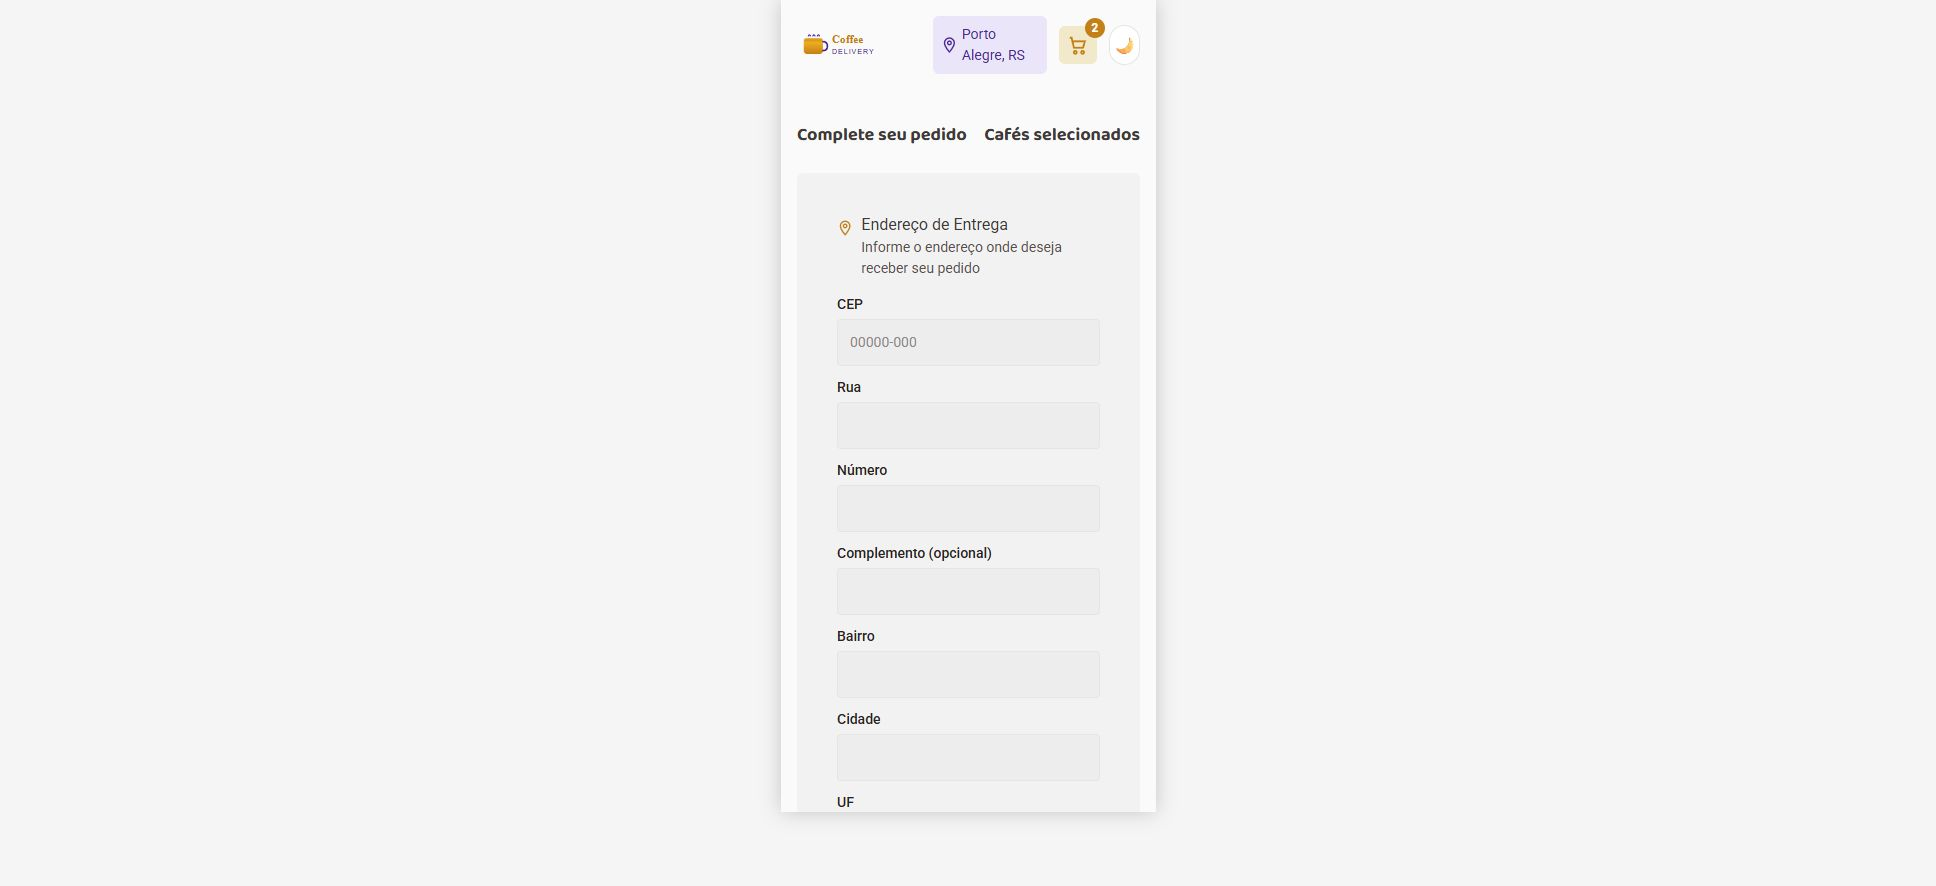
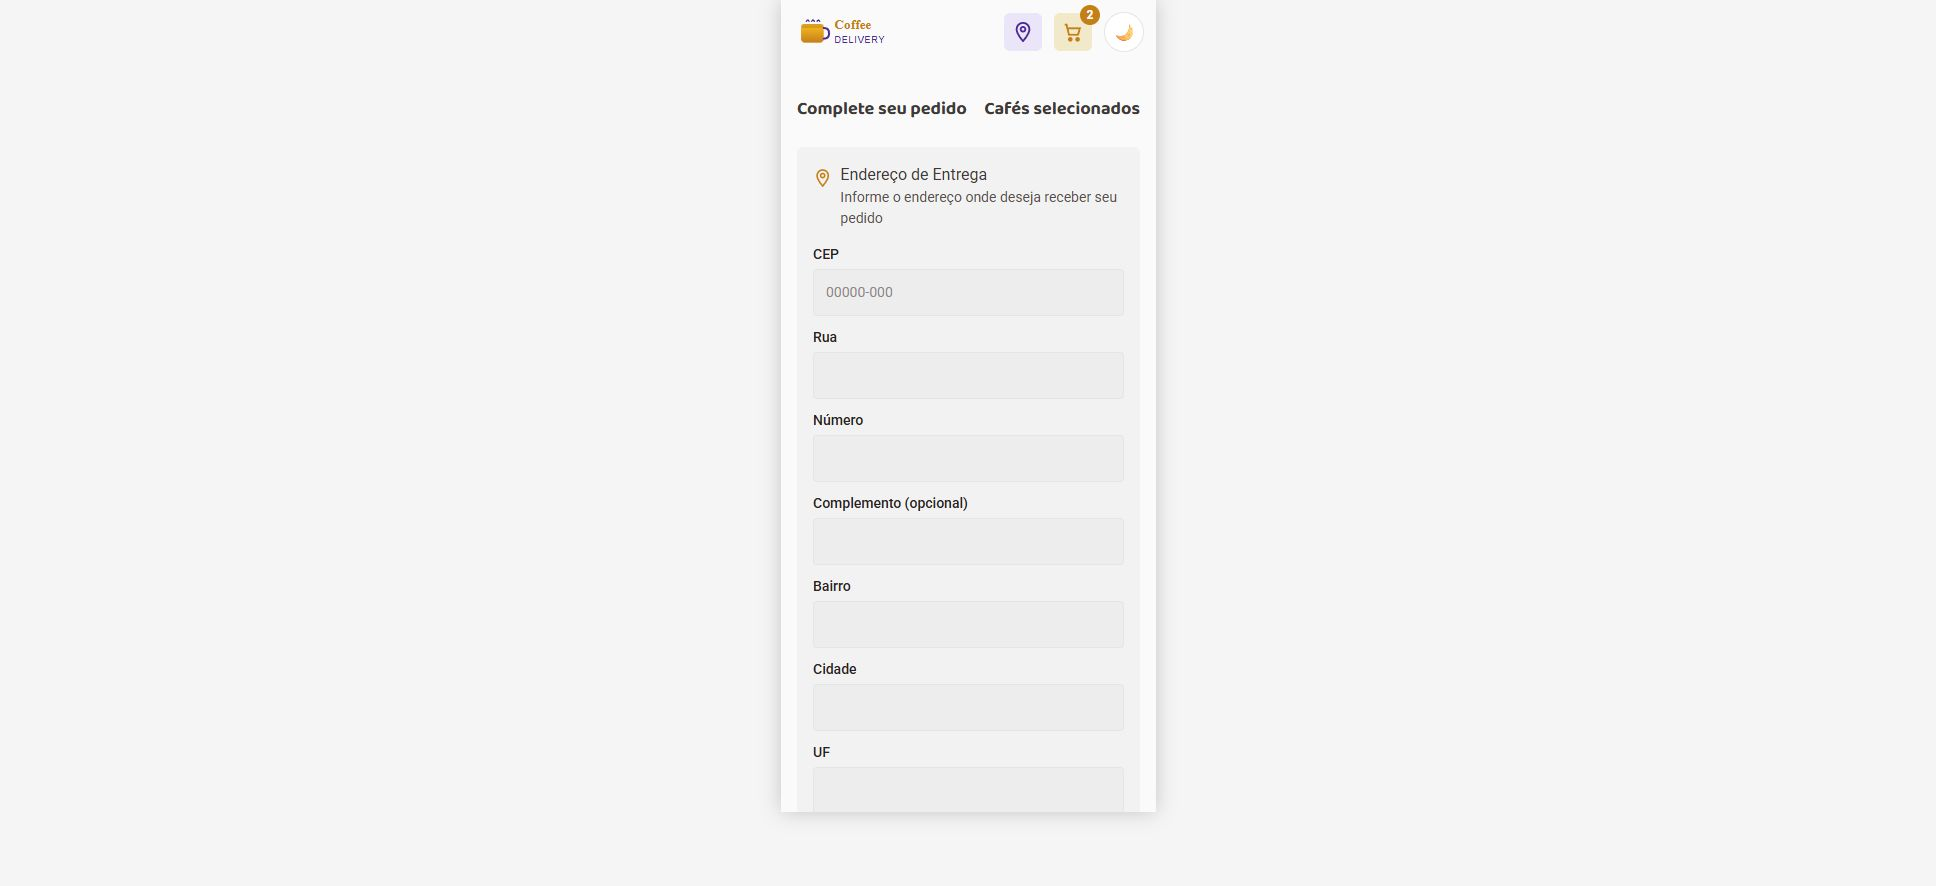
docs: add mobile screenshots (home, dark, checkout, success)

diff --git a/README.md b/README.md
@@ -62,9 +62,9 @@ Referência: arquivo "Coffee Delivery | Projeto Final React" (Home frame 2:1550,
 
 ### Mobile
 
-| Home (Light) | Home (Dark) | Checkout |
-|---|---|---|
-| ![Mobile Home](docs/screenshots/mobile-home.jpg) | ![Mobile Dark](docs/screenshots/mobile-dark.jpg) | ![Mobile Checkout](docs/screenshots/mobile-checkout.jpg) |
+| Home (Light) | Home (Dark) | Checkout | Sucesso |
+|---|---|---|---|
+| ![Mobile Home](docs/screenshots/mobile-home.jpg) | ![Mobile Dark](docs/screenshots/mobile-dark.jpg) | ![Mobile Checkout](docs/screenshots/mobile-checkout.jpg) | ![Mobile Success](docs/screenshots/mobile-success.jpg) |
 
 ## Tema e responsividade
 
